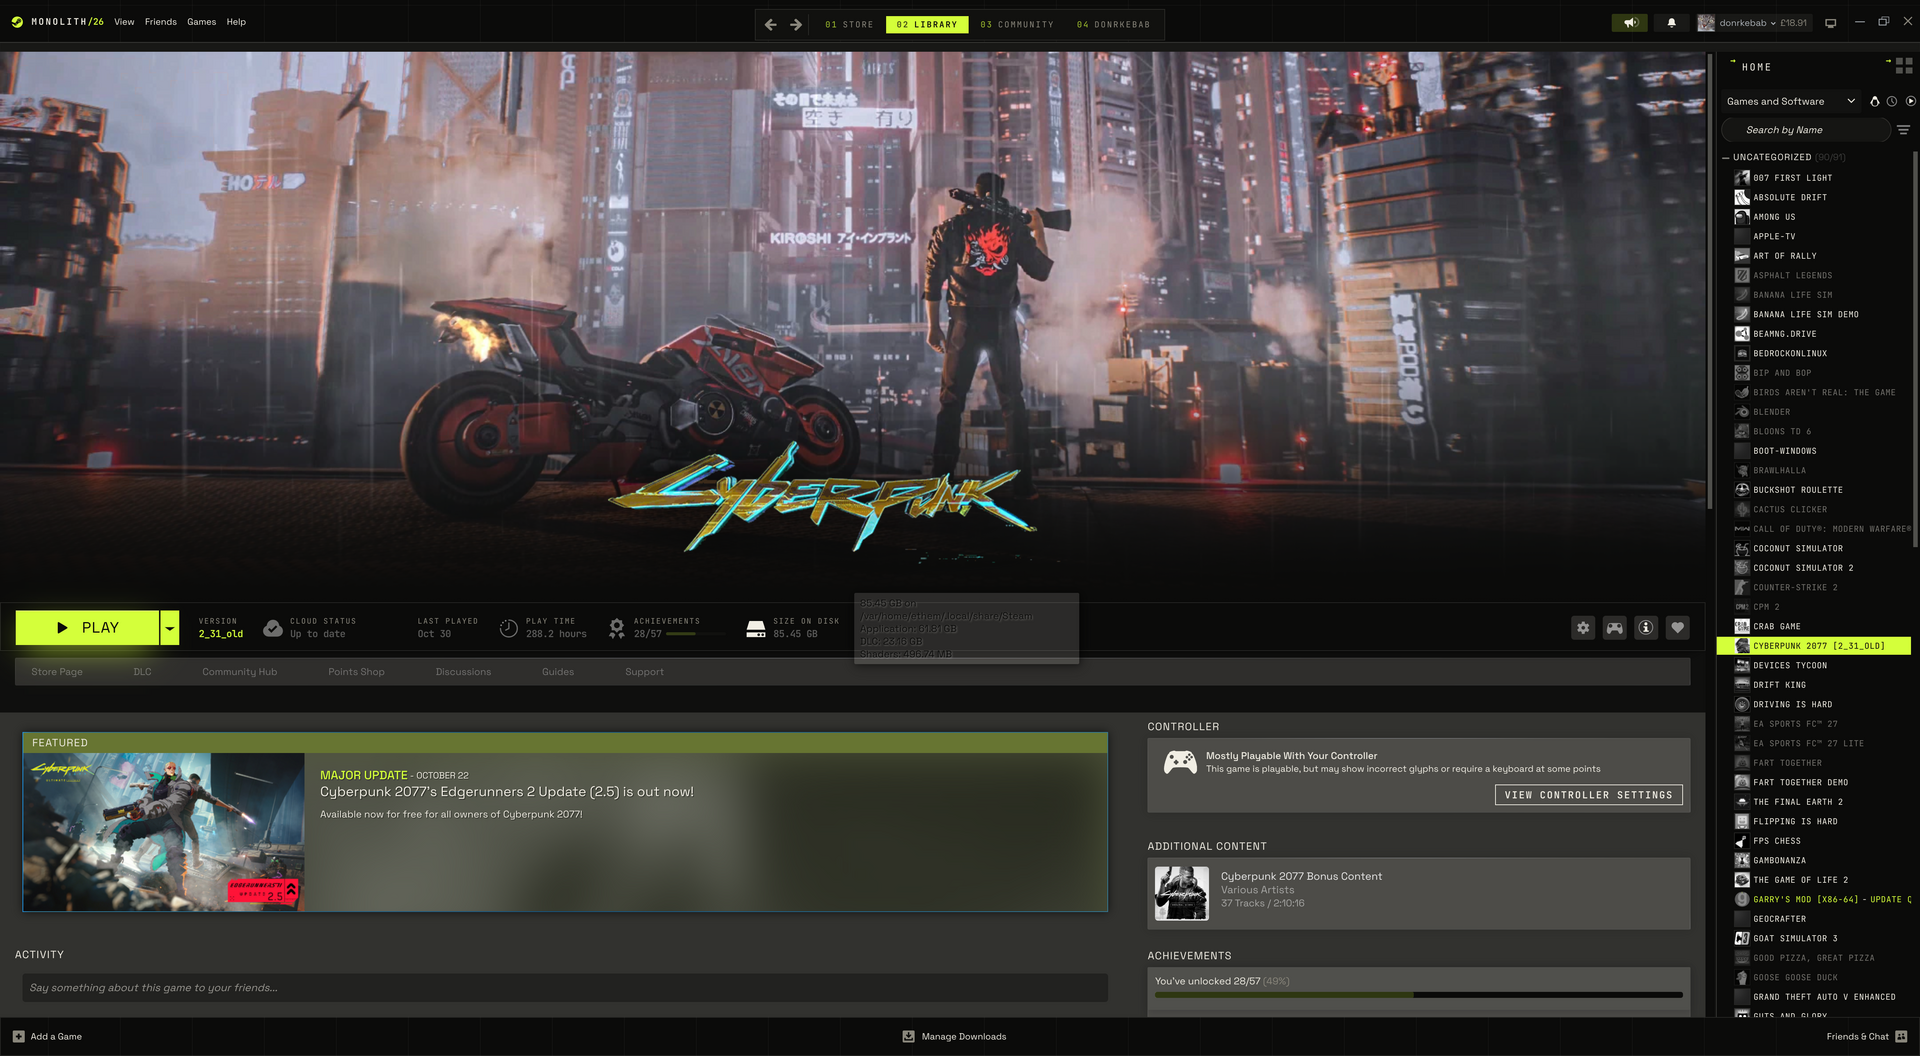
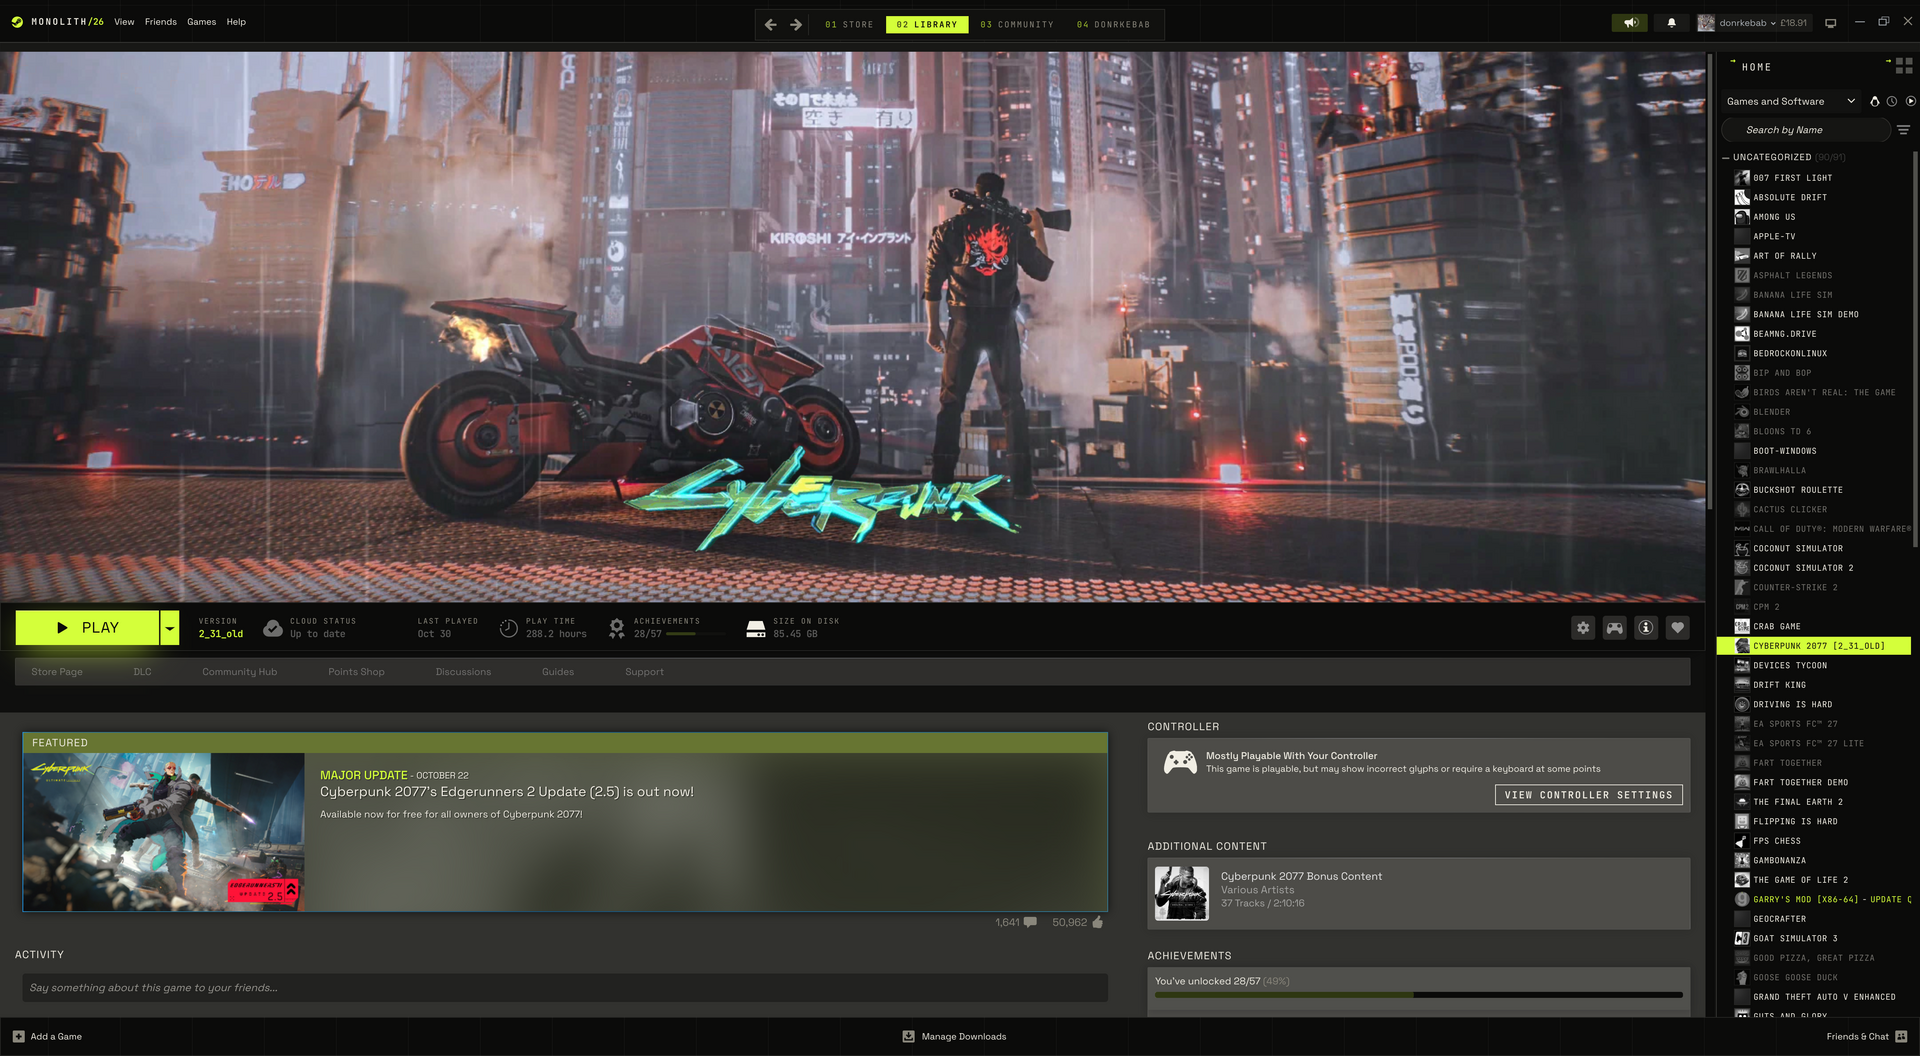
Show game art as-is with no fades, matching play button colours, refreshed screenshots

Changed region(s): [[0.0, 0.3438, 0.9062, 0.6562], [0.2188, 0.2812, 0.25, 0.3438], [0.125, 0.25, 0.1562, 0.2812]]

diff --git a/mx/main.css b/mx/main.css
@@ -856,7 +856,6 @@ body::before{content:"";position:fixed;inset:-20%;pointer-events:none;z-index:0;
 ._3ydigb6zZAjJ0JCDgHwSYA._2AzIX5kl9k6JnxLfR5H4kX{min-width:180px;gap:8px}
 ._39oUCO1OuizVPwcnnv88no ._1Ky59qmywxOUtNcI1cgmkX{align-items:center;padding-left:10px}
 ._3LKQ3S_yqrebeNLF6aeiog{position:relative;border-radius:6px}
-.q-hero-fade{position:absolute;pointer-events:none;z-index:1;background:linear-gradient(transparent 75%,var(--bg-solid) 100%)}
 ._3ydigb6zZAjJ0JCDgHwSYA._2AzIX5kl9k6JnxLfR5H4kX:has(.SVGIcon_Play):hover,._2AzIX5kl9k6JnxLfR5H4kX._2q-gZ3XJzlvSGHSF-GvSmi:hover{filter:brightness(1.12)}
 ._3Z3ohQ8-1NKnCZkbS6fvy ._2D64jIEK7wpUR_NlObDW76{align-items:center;gap:2px;border-radius:var(--nav-r,999px);background:var(--surface-solid);border:1px solid var(--line);box-shadow:inset 0 1px 0 var(--hi,#fff1)}
 ._3Z3ohQ8-1NKnCZkbS6fvy ._2D64jIEK7wpUR_NlObDW76 svg{border-radius:var(--nav-r,999px);transition:background .1s,color .1s}
@@ -912,7 +911,6 @@ body::before{content:"";position:fixed;inset:-20%;pointer-events:none;z-index:0;
 .Rp8QOGJ2DypeDniMnRBhr ._191qxA6UisOKSvaq9gM4W6,.Rp8QOGJ2DypeDniMnRBhr ._191qxA6UisOKSvaq9gM4W6 *{border-radius:99px}
 ._1YbtIWcfkQJOysLXQbwzRf ._1mDAVT4sTzFRwJtlKCw2Ws,._1YbtIWcfkQJOysLXQbwzRf ._1dg8hJMsAYISbeQUxcCJcv{letter-spacing:-.02em}
 ._1YbtIWcfkQJOysLXQbwzRf>*{animation:rise .4s var(--ease) both}
-.NZMJ6g2iVnFsOOp-lDmIP::after{content:"";position:absolute;inset:auto 0 0 0;height:45%;pointer-events:none;background:linear-gradient(transparent,var(--bg-solid))}
 ._1bq4x9pa4-9RLY-dXWUZTp ._20JlDJD9-uoCjNLGp_8mY6 ._2XqX2Zbz7zS2_xq8AksGCu,._1bq4x9pa4-9RLY-dXWUZTp ._20JlDJD9-uoCjNLGp_8mY6 ._26UBk-6weCeV-VClfXNWJZ{font-variant-numeric:tabular-nums}
 ._1bq4x9pa4-9RLY-dXWUZTp ._20JlDJD9-uoCjNLGp_8mY6 ._26UBk-6weCeV-VClfXNWJZ{letter-spacing:.14em;text-transform:uppercase}
 ._1bq4x9pa4-9RLY-dXWUZTp ._3KDkLoCR8OM8xfdQysKn9t{overflow:hidden;border:1px solid var(--line)}
@@ -1011,7 +1009,7 @@ body :is(input,textarea,:is([contenteditable=""],[contenteditable=true],[content
 .NZMJ6g2iVnFsOOp-lDmIP .HNbe3eZf6H7dtJ042x1vM.HSQWw9HUAP6jtA2OZjS-u,.NZMJ6g2iVnFsOOp-lDmIP .HNbe3eZf6H7dtJ042x1vM._3_IUVzR9tpG_JKEjhwXEAb{display:none!important}
 .NZMJ6g2iVnFsOOp-lDmIP img.q-hero{-webkit-mask-image:none!important;mask-image:none!important;max-width:none!important;max-height:none!important;margin:0!important;transform:none!important;object-fit:fill!important}
 .NZMJ6g2iVnFsOOp-lDmIP ._2DVdg_N1qLNDdnxJqN-RBX,.NZMJ6g2iVnFsOOp-lDmIP ._3NBxSLAZLbbbnul8KfDFjw{z-index:3!important}
-._3ydigb6zZAjJ0JCDgHwSYA._2AzIX5kl9k6JnxLfR5H4kX:has(.SVGIcon_Play),._3ydigb6zZAjJ0JCDgHwSYA._2AzIX5kl9k6JnxLfR5H4kX:has(.SVGIcon_Download),._2AzIX5kl9k6JnxLfR5H4kX._2q-gZ3XJzlvSGHSF-GvSmi{background:var(--acc)!important;background-image:none!important;animation:none!important;box-shadow:none!important;border:0!important}
+._3ydigb6zZAjJ0JCDgHwSYA._2AzIX5kl9k6JnxLfR5H4kX:has(.SVGIcon_Play),._3ydigb6zZAjJ0JCDgHwSYA._2AzIX5kl9k6JnxLfR5H4kX:has(.SVGIcon_Download),._2AzIX5kl9k6JnxLfR5H4kX._2q-gZ3XJzlvSGHSF-GvSmi{background:var(--btn-pri)!important;background-image:none!important;animation:none!important;box-shadow:none!important;border:0!important}
 ._3ydigb6zZAjJ0JCDgHwSYA._2AzIX5kl9k6JnxLfR5H4kX:has(.SVGIcon_Play),._3ydigb6zZAjJ0JCDgHwSYA._2AzIX5kl9k6JnxLfR5H4kX:has(.SVGIcon_Download){border-radius:var(--play-r,10px) 0 0 var(--play-r,10px)!important;color:var(--btn-pri-fg)!important;font-weight:800!important;letter-spacing:.04em!important}
 ._3ydigb6zZAjJ0JCDgHwSYA._2AzIX5kl9k6JnxLfR5H4kX:has(.SVGIcon_Play) *,._3ydigb6zZAjJ0JCDgHwSYA._2AzIX5kl9k6JnxLfR5H4kX:has(.SVGIcon_Download) *{color:var(--btn-pri-fg)!important;fill:var(--btn-pri-fg)!important;filter:none!important;opacity:1!important}
 ._2AzIX5kl9k6JnxLfR5H4kX._2q-gZ3XJzlvSGHSF-GvSmi{border-radius:0 var(--play-r,10px) var(--play-r,10px) 0!important;margin-left:2px!important;color:var(--btn-pri-fg)!important}
@@ -1023,6 +1021,7 @@ body :is(input,textarea,:is([contenteditable=""],[contenteditable=true],[content
 ._3Z3ohQ8-1NKnCZkbS6fvy ._7AlhCx3XGzBeIrQaCneUD{padding:6px 16px!important;margin:0!important}
 ._3Z3ohQ8-1NKnCZkbS6fvy ._7AlhCx3XGzBeIrQaCneUD._1gqEjB5QsKT_NftD1dEsdZ{background:var(--acc)!important;box-shadow:none!important}
 ._3Z3ohQ8-1NKnCZkbS6fvy ._7AlhCx3XGzBeIrQaCneUD._1gqEjB5QsKT_NftD1dEsdZ ._19axKcqYRuaJ8vdYKYmtTQ{color:var(--btn-pri-fg)!important;font-weight:700!important}
+.NZMJ6g2iVnFsOOp-lDmIP::before,.NZMJ6g2iVnFsOOp-lDmIP::after{display:none!important}
 ._3fLo166MlaNqP8r8tTyRz,._1nTD-C3qRvYp3RSRZSegz3>div,._3vCzSrrXZzZjVJFZNg9SGu{background:var(--surface)!important;border:1px solid var(--line)!important;border-radius:var(--rx)!important;box-shadow:inset 0 1px 0 var(--hi),0 1px 2px #0006,0 8px 20px -14px #000!important}
 ._1nTD-C3qRvYp3RSRZSegz3>div:hover{border-color:var(--line-hi)!important}
 ._23SnllqT_AqZ1C_QHcNQ4Z{font-family:var(--font-display)!important;font-size:var(--sh-size,15px)!important;letter-spacing:var(--sh-ls,-.01em)!important}

diff --git a/mx/main.js b/mx/main.js
@@ -1,3 +1,4 @@
+document.querySelectorAll('.q-hero-fade').forEach(e=>e.remove());
 // themed loading screen for the main window: shown until the library/store has rendered (max 8s)
 (()=>{if(window.__qLoad)return;window.__qLoad=1;
 const o=document.createElement('div');o.id='q-load';o.innerHTML='<div class="q-mark"></div><div class="q-bar"></div>';
@@ -14,8 +15,6 @@ const t0=Date.now(),iv=setInterval(()=>{if(document.querySelector('.Rp8QOGJ2Dype
  const w=vr-vl,ar=img.naturalWidth/img.naturalHeight,iw=w,ih=Math.round(w/ar);
  hero.style.setProperty('height',ih+'px','important');hero.style.setProperty('max-height','none','important');hero.style.setProperty('min-height','0','important');
  const h=ih;
- img.classList.add('q-hero');Object.assign(img.style,{position:'absolute',left:(vl-pr.left)+'px',top:'0px',width:iw+'px',height:ih+'px'});
- let f=op.querySelector(':scope>.q-hero-fade');if(!f){f=document.createElement('div');f.className='q-hero-fade';op.appendChild(f)}
- Object.assign(f.style,{left:img.style.left,top:img.style.top,width:iw+'px',height:ih+'px'})};
+ img.classList.add('q-hero');Object.assign(img.style,{position:'absolute',left:(vl-pr.left)+'px',top:'0px',width:iw+'px',height:ih+'px'});};
  const q=()=>{if(!raf)raf=requestAnimationFrame(place)};
  addEventListener('resize',q);new MutationObserver(q).observe(document.documentElement,{childList:true,subtree:true});document.addEventListener('load',q,true)})();
